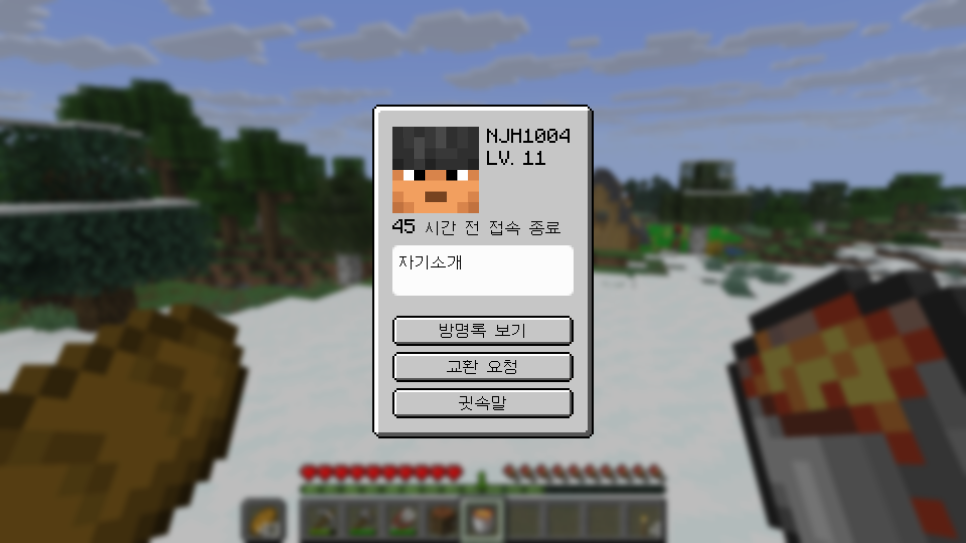
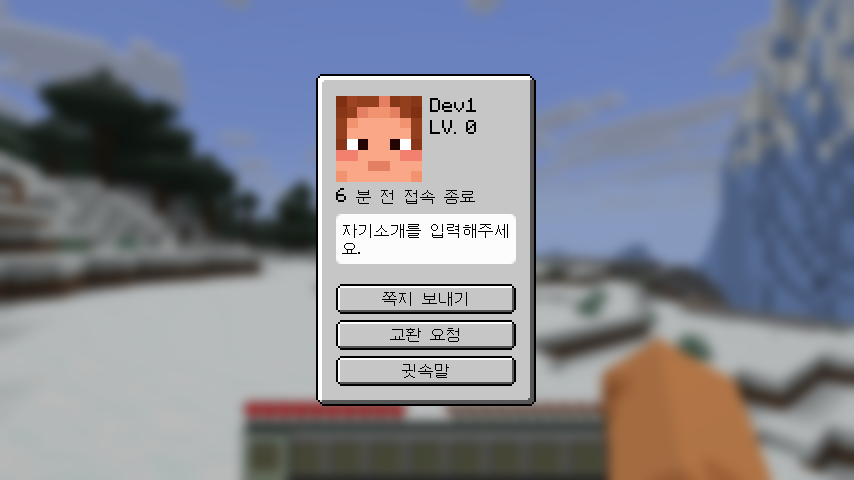
20251231

diff --git a/pages/Minecraft_Mods_JWN's Profile Mod.html b/pages/Minecraft_Mods_JWN's Profile Mod.html
@@ -35,7 +35,7 @@
                     <li>마인크래프트 버전: 1.21.10 (NeoForge 버전 21.10.63 이상)</li>                    
                 </ul>
             <h2>상세</h2>
-            <small>* 2025. 12. 27. Last Updated</small>
+            <small>* 2025. 12. 31. Last Updated</small>
             <h3>개인 프로필</h3>
             <p>
                 인게임 명령어 <code>/profile <플레이어 이름></code>을 통해 플레이어의 프로필을 확인할 수 있습니다.
@@ -50,9 +50,8 @@
             </p>
             <p>
                 또한 다음 기능을 사용할 수 있습니다.
-                <h4>방명록 보기</h4>
-                플레이어의 방명록을 확인할 수 있습니다. 
-                방명록에 기록을 남기면 방명록을 확인하는 다른 모든 플레이어가 해당 내용을 확인할 수 있습니다.
+                <h4>쪽지 보내기</h4>
+                플레이어에게 쪽지를 보낼 수 있습니다. 쪽지는 상대방의 게임 접속 여부와 상관없이 보낼 수 있습니다.
                 <h4>교환 요청</h4>
                 플레이어에게 교환을 요청합니다. 
                 상대방 플레이어가 1분 이내에 교환을 수락하지 않으면 교환이 취소됩니다.
@@ -65,12 +64,16 @@
             <p>
                 프로필의 교환 신청 버튼을 누르면 해당 플레이어에게 교환을 신청할 수 있습니다.
                 <img src="../assets/img/20251227_002.png" alt="20251227_002.png" width="700px">
+                또는 다음 명령어를 통해서도 교환을 신청할 수 있습니다.
+                <ul>
+                    <li><code>/trade request <플레이어 이름></code></li>
+                </ul>
                 누군가가 교환을 요청하면 toast 알림창을 통해 교환 요청 사실을 확인할 수 있습니다.
                 교환을 받은 플레이어가 1분 이내에 교환을 수락하지 않으면 교환은 자동으로 취소됩니다.
                 아래 명령어를 통해 교환을 수락하거나 거절할 수 있습니다.
                 <ul>
-                    <li><code>/trade accept <플레이어 이름></code></li>
-                    <li><code>/trade reject <플레이어 이름></code></li>
+                    <li><code>/trade accept</code></li>
+                    <li><code>/trade reject</code></li>
                 </ul>
                 교환을 수락할 경우, 교환 GUI가 열리고 교환을 진행할 수 있습니다.
                 <img src="../assets/img/20251227_003.png" alt="20251227_003.png" width="700px">
@@ -82,29 +85,30 @@
             </ul>
             <h3>0.0.2</h3>
             <ul>
-                <li>거래 기능 구현 완료</li>
+                <li>교환 기능 구현 완료</li>
             </ul>
             <h3>0.0.3</h3>
             <ul>
-                <li>거래 매커니즘 변경: 거래창에 아이템을 넣으면 다시 뺄 수 없음</li>
+                <li>교환 매커니즘 변경: 교환창에 아이템을 넣으면 다시 뺄 수 없음</li>
             </ul>
             <h3>0.0.4</h3>
             <ul>
-                <li>거래 매커니즘 변경: 근처에 몬스터가 있으면 거래할 수 없음</li>
+                <li>교환 매커니즘 변경: 근처에 몬스터가 있으면 교환할 수 없음</li>
                 <li>네더 또는 엔더에서 프로필을 열려고 시도하면 오류가 발생하면서 강제로 게임에서 나가지는 버그 수정</li>
-                <li>거래중이던 플레이어가 게임을 강제로 종료하는 등 거래가 중단되어야 하는 상황에서 거래가 정상적으로 중단되지 않는 버그 수정</li>
+                <li>교환중이던 플레이어가 게임을 강제로 종료하는 등 교환가 중단되어야 하는 상황에서 교환가 정상적으로 중단되지 않는 버그 수정</li>
                 <li>프로필에서 미접속 중인 플레이어 얼굴이 나오지 않는 버그 수정</li>
                 <li>자기소개 수정 시 기존 자기소개 내용을 기본값으로 두도록 변경</li>
                 <li>플레이어 이름을 입력해야 하는 명령어에 (미접속 플레이어를 포함하여) 이름을 자동완성할 수 있도록 기능 추가</li>
             </ul>
             <h3>0.0.5</h3>
             <ul>
-                <li>방명록 기능 대신, 쪽지 보내기 기능으로 변경 예정</li>
-                <li>거래 수락/거절 명령어에 플레이어 이름을 입력하지 않아도 되도록 변경 예정</li>
+                <li>방명록 기능 대신 쪽지 보내기 기능으로 변경</li>
+                <li>교환 수락/거절 명령어에 플레이어 이름을 입력하지 않아도 되도록 변경</li>
+                <li>교환 요청 명령어 추가</li>
             </ul>
             <h2>자료실</h2>
             <a href="../assets/files/jwnsprofilemod-0.0.4.jar" download class="mod-jar-download">jwnsprofilemod-0.0.4</a>
-            <a href="../assets/files/jwnsprofilemod-0.0.4.jar" download class="mod-jar-download">jwnsprofilemod-0.0.4</a>
+            <a href="../assets/files/jwnprofile-0.0.5.jar" download class="mod-jar-download">jwnprofile-0.0.5</a>
             <small>* Click to download</small>
             <p>또는 <code>git clone</code> 이후 직접 <code>./gradlew build</code>해도 됨</p>
         </main>
